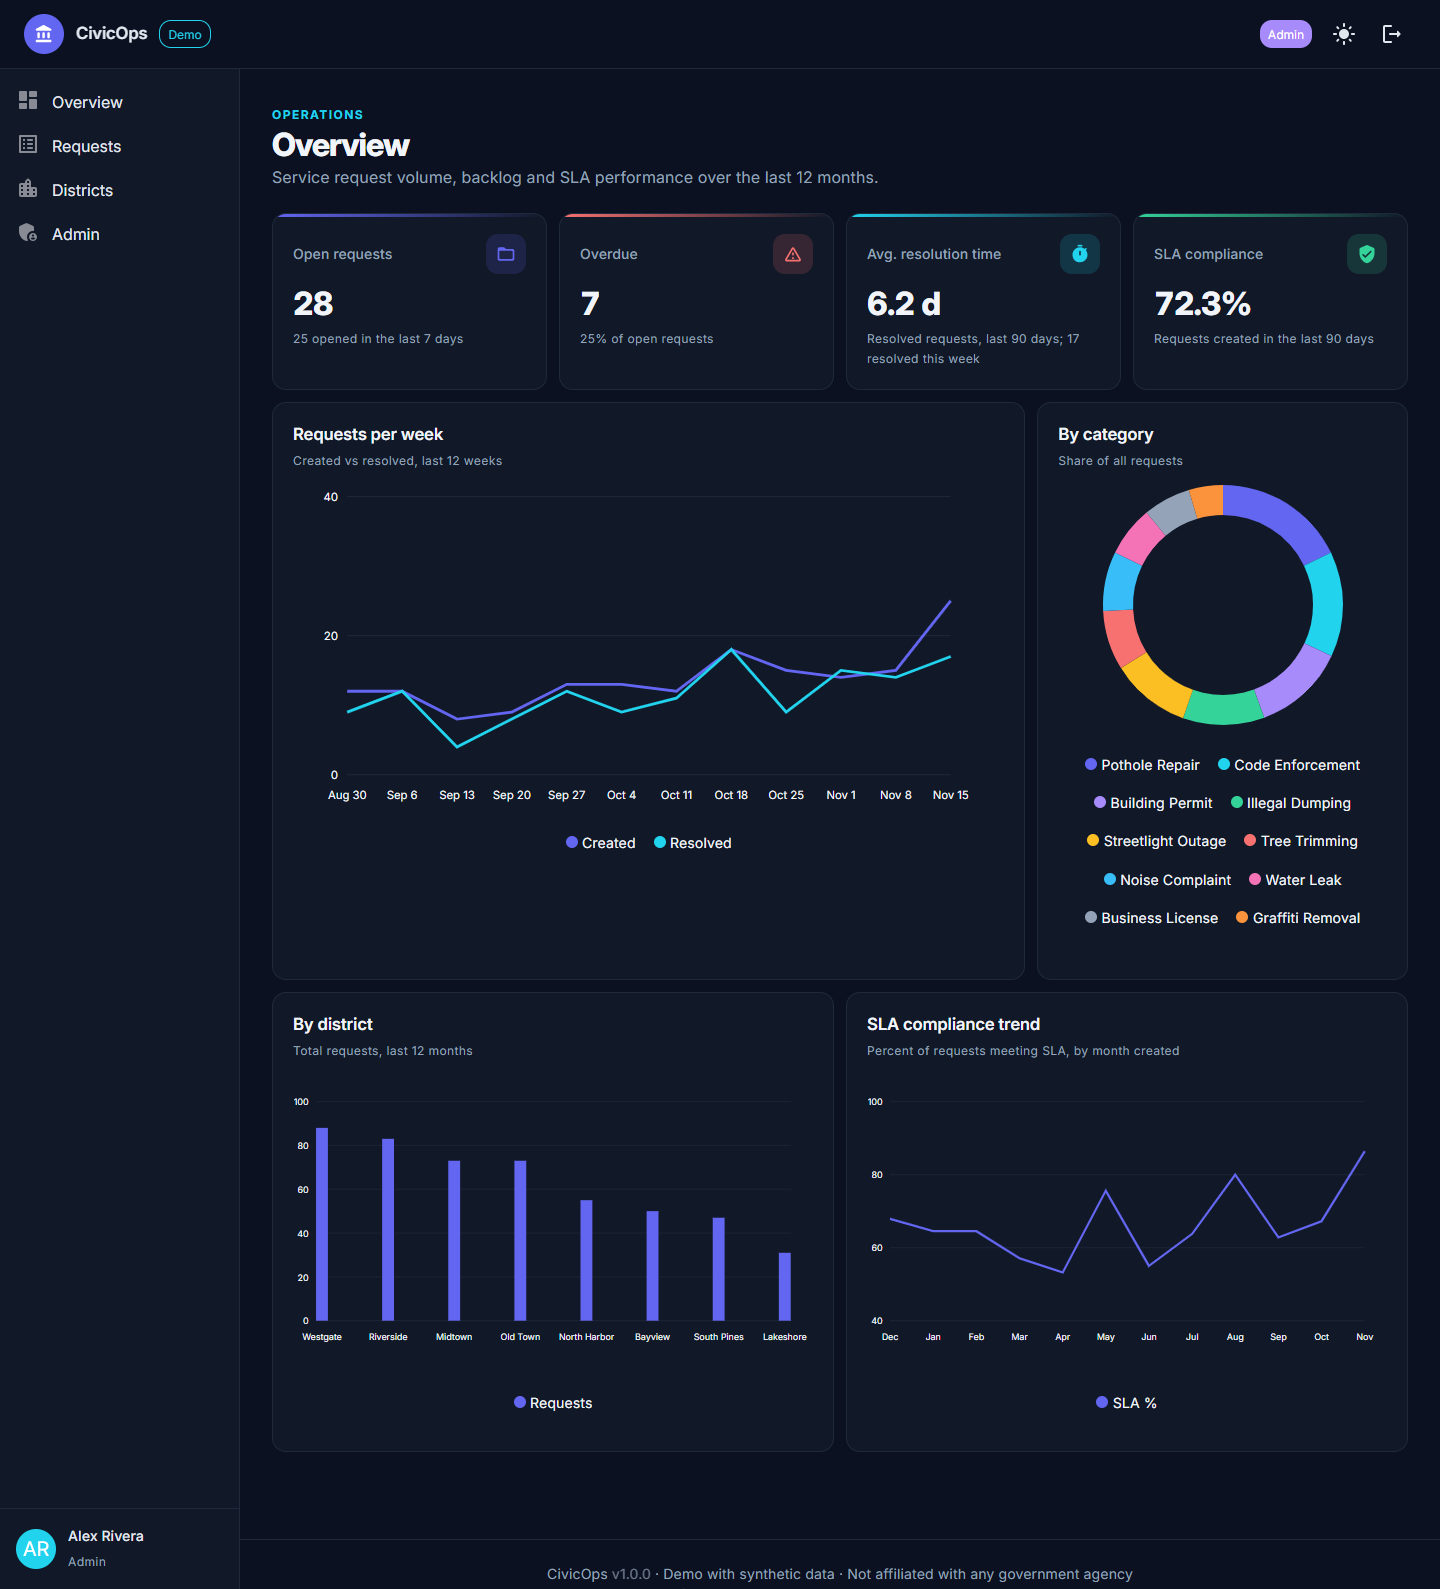
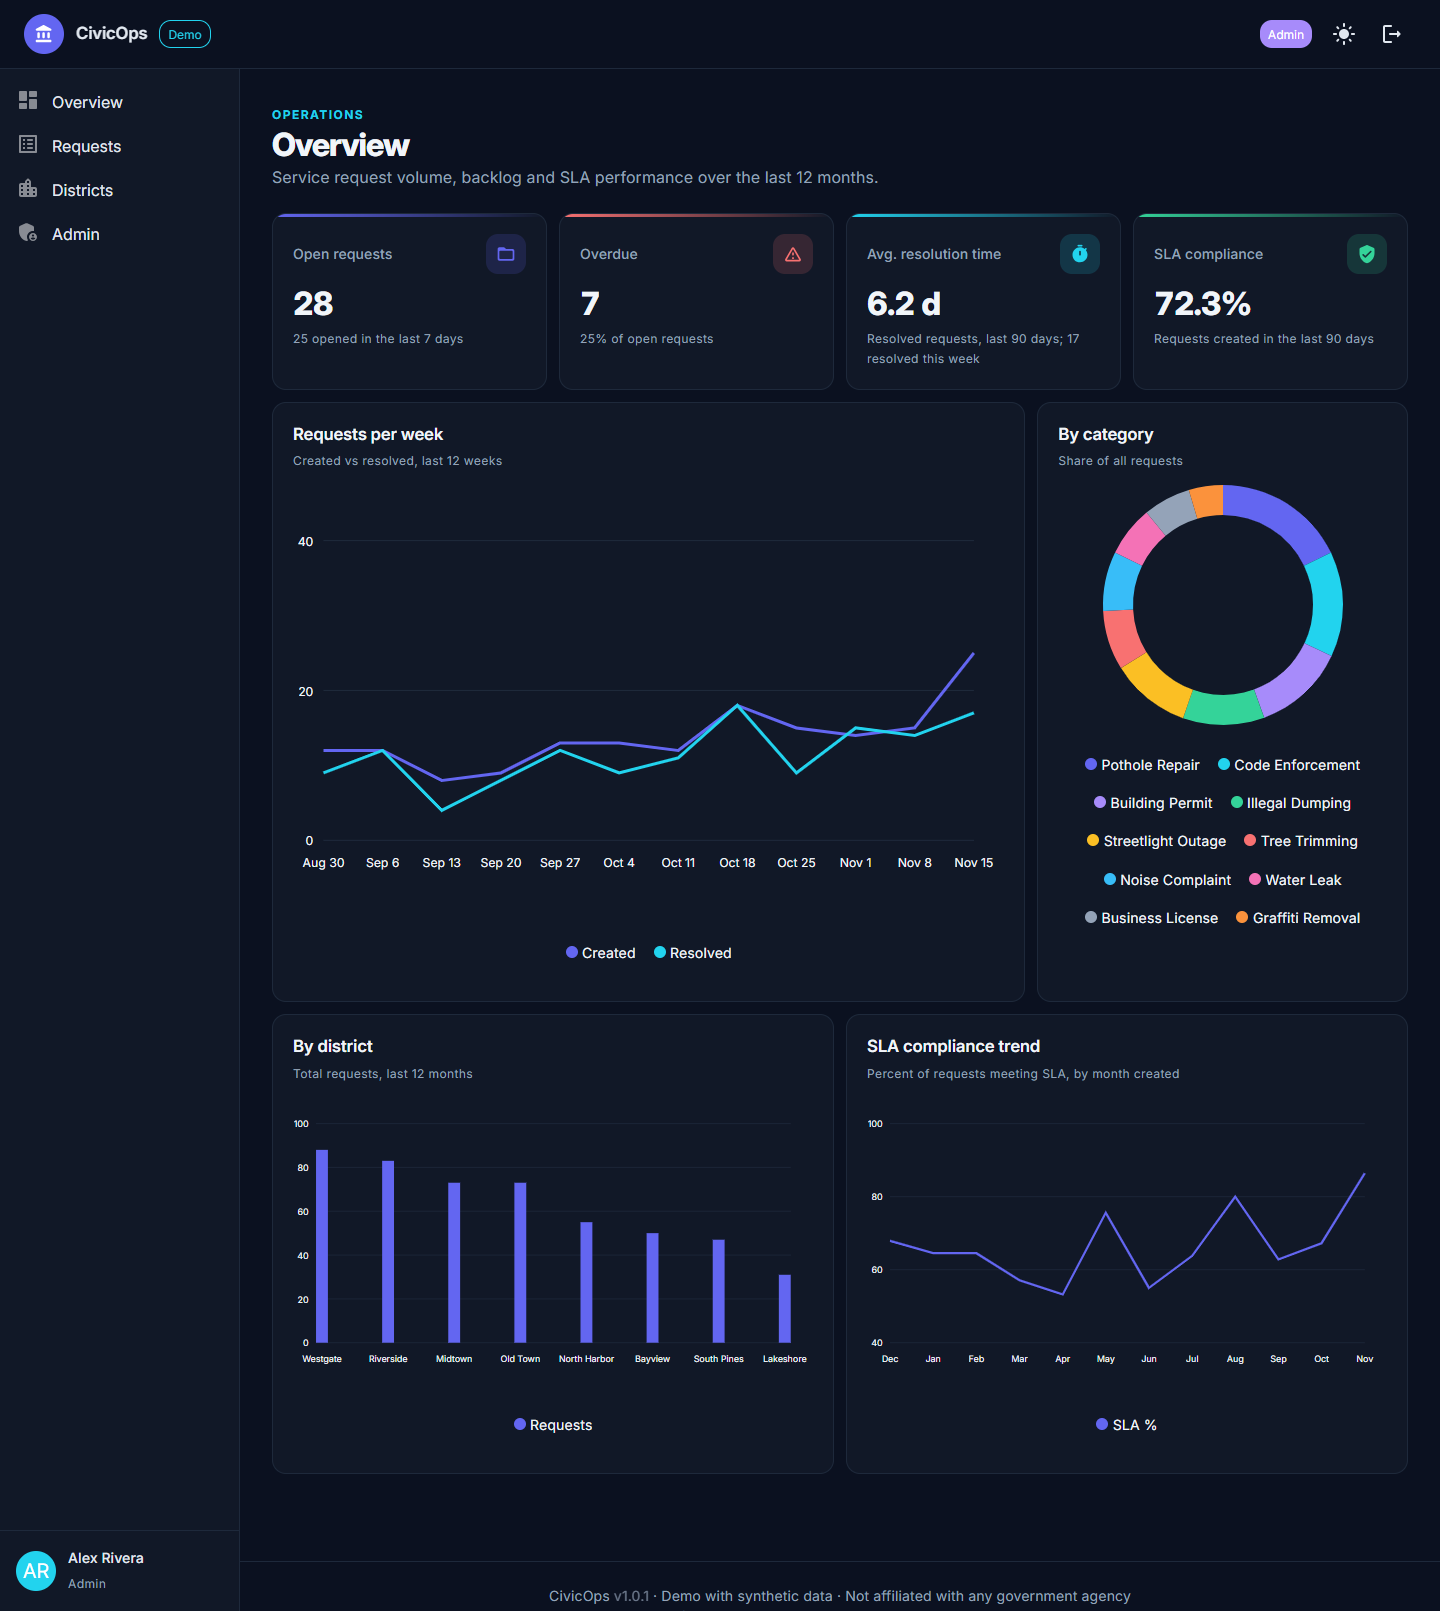
Polish pass 1.0.1: mobile requests layout, admin grid, chart sizing, fix demo reset lock

diff --git a/wwwroot/app.css b/wwwroot/app.css
@@ -12,6 +12,8 @@ img { max-width: 100%; }
 .mud-icon-button { min-width: 44px; min-height: 44px; }
 .mud-button-root { min-height: 44px; }
 .mud-chip { min-height: 28px; }
+.mud-chip .mud-chip-icon, .mud-chip .mud-icon-root { font-size: 1.125rem; width: 1.125rem; height: 1.125rem; }
+.mud-chip.mud-chip-size-small .mud-chip-icon, .mud-chip.mud-chip-size-small .mud-icon-root { font-size: 1rem; width: 1rem; height: 1rem; }
 
 /* App shell */
 .app-bar { backdrop-filter: blur(14px); -webkit-backdrop-filter: blur(14px); border-color: var(--mud-palette-lines-default) !important; }
@@ -119,3 +121,11 @@ img { max-width: 100%; }
 .requests-grid th:nth-child(6), .requests-grid td:nth-child(6) { width: 90px; }
 .requests-grid th:nth-child(7), .requests-grid td:nth-child(7) { width: 130px; }
 }
+
+.number-cell { white-space: nowrap; font-weight: 600; }
+.title-cell { font-weight: 500; overflow-wrap: anywhere; }
+.requests-grid .mud-table-container { overflow-x: auto; }
+/* Primary chart grows to fill its card next to the taller donut card (desktop only) */
+@media (min-width: 1280px) { .chart-fill .mud-chart, .chart-fill .mud-chart-line { height: 440px; } }
+/* Phones: the chart's viewBox scales down with width, so a shorter box avoids dead space */
+@media (max-width: 599px) { .chart-wrap .mud-chart, .chart-wrap .mud-chart-line { height: 220px; } }

diff --git a/Data/DemoDataSeeder.cs b/Data/DemoDataSeeder.cs
@@ -82,6 +82,9 @@ public sealed class DemoDataSeeder(
     /// <summary>Wipes requests, categories, SLA rules and districts, then regenerates them. Users are kept (passwords restored).</summary>
     public async Task ResetAsync(CancellationToken ct = default)
     {
+        // Identity writes use their own connections: run them before the transaction opens,
+        // otherwise SQLite reports "database is locked".
+        await EnsureUsersAsync(restorePasswords: true);
         await using var db = await factory.CreateDbContextAsync(ct);
         await using var tx = await db.Database.BeginTransactionAsync(ct);
         await db.Events.ExecuteDeleteAsync(ct);
@@ -89,7 +92,6 @@ public sealed class DemoDataSeeder(
         await db.SlaRules.ExecuteDeleteAsync(ct);
         await db.Categories.ExecuteDeleteAsync(ct);
         await db.Districts.ExecuteDeleteAsync(ct);
-        await EnsureUsersAsync(restorePasswords: true);
         await SeedDataAsync(db, ct);
         await tx.CommitAsync(ct);
     }

diff --git a/tests/CivicOps.Web.Tests/ServiceTests.cs b/tests/CivicOps.Web.Tests/ServiceTests.cs
@@ -201,6 +201,9 @@ public class ServiceTests(TestApp app) : IClassFixture<TestApp>
         hours[RequestPriority.Urgent] = 0;
         Assert.Equal(Failure.Invalid, (await admin.SaveCategoryAsync(Admin, cat.Id, cat.Name, cat.Department, true, hours)).Failure);
         Assert.Equal(Failure.Forbidden, (await admin.ResetDemoDataAsync(sup)).Failure);
+        // Regression: the reset used to hit "database is locked" (Identity writes inside the seeding transaction).
+        Assert.True((await admin.ResetDemoDataAsync(Admin)).Ok);
+        Assert.NotEmpty(await admin.GetCategoriesAsync());
     }
 
     [Theory]

diff --git a/Components/UiHelpers.cs b/Components/UiHelpers.cs
@@ -17,7 +17,7 @@ public static class UiHelpers
 
     public static string StatusIcon(RequestStatus s) => s switch
     {
-        RequestStatus.New => Icons.Material.Rounded.FiberNew,
+        RequestStatus.New => Icons.Material.Rounded.NewReleases,
         RequestStatus.InProgress => Icons.Material.Rounded.Autorenew,
         RequestStatus.OnHold => Icons.Material.Rounded.PauseCircle,
         RequestStatus.Resolved => Icons.Material.Rounded.CheckCircle,

diff --git a/README.md b/README.md
@@ -6,17 +6,13 @@ Built with .NET 11, Blazor (Interactive Server), MudBlazor, EF Core + SQLite and
 
 ## Screenshots
 
-| Overview (dark) | Requests grid (dark) |
+| Overview (dark) | Requests grid (light) |
 | --- | --- |
-| ![Overview dashboard, dark theme](docs/screenshots/dashboard-dark-1440.png) | ![Requests grid, dark theme](docs/screenshots/requests-dark-1440.png) |
+| ![Overview dashboard, dark theme](docs/screenshots/dashboard-dark-1440.png) | ![Requests grid, light theme](docs/screenshots/requests-light-1440.png) |
 
-| Request detail (light) | Try the demo login (dark) |
+| Request detail (dark) | Mobile overview (390px, dark) |
 | --- | --- |
-| ![Request detail with timeline, light theme](docs/screenshots/detail-light-1440.png) | ![Demo login page, dark theme](docs/screenshots/login-dark-1440.png) |
-
-| Mobile overview (390px, dark) | Mobile requests (390px, light) |
-| --- | --- |
-| ![Mobile overview](docs/screenshots/dashboard-dark-390.png) | ![Mobile requests list](docs/screenshots/requests-light-390.png) |
+| ![Request detail with timeline, dark theme](docs/screenshots/detail-dark-1440.png) | ![Mobile overview](docs/screenshots/dashboard-dark-390.png) |
 
 ## Features
 - **Overview**: KPI tiles (open, overdue, average resolution time, SLA compliance) and charts: requests per week (line), by category (donut), by district (bar), SLA compliance trend (line).

diff --git a/CHANGELOG.md b/CHANGELOG.md
@@ -1,5 +1,13 @@
 # Changelog
 
+## 1.0.1 - 2026-11-15
+
+- Fix: "Reset demo data" failed with "database is locked" (Identity writes ran inside the seeding transaction) and surfaced as an unhandled circuit error; users are now restored before the transaction and failures show a snackbar.
+- Requests grid: Number column never wraps; compact mobile layout (number, title, status chip, priority and due date per row) replaces the stacked cards; Assignee/Created hide below 1280px so tablet widths stay readable.
+- Status chips: "New" uses a clearer icon and all chip icons share one size.
+- Dashboard: "Requests per week" chart height fills its card.
+- Admin: category/SLA editor is now a responsive card grid (no cramped inputs at tablet widths, tidy on mobile); Districts mobile rows align the district name correctly.
+
 ## 1.0.0 - 2026-11-15
 
 Initial release.
